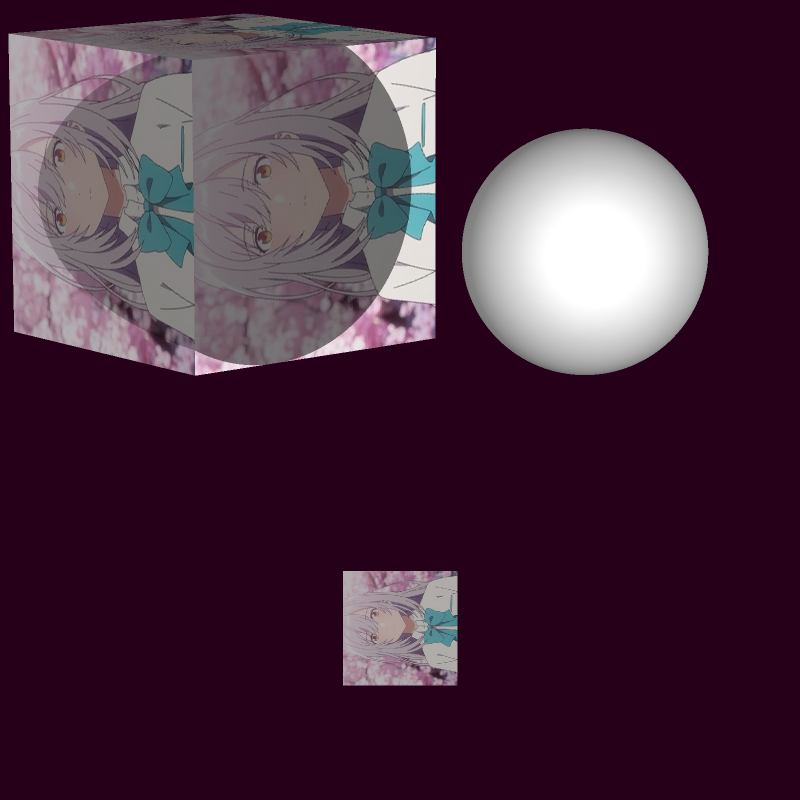
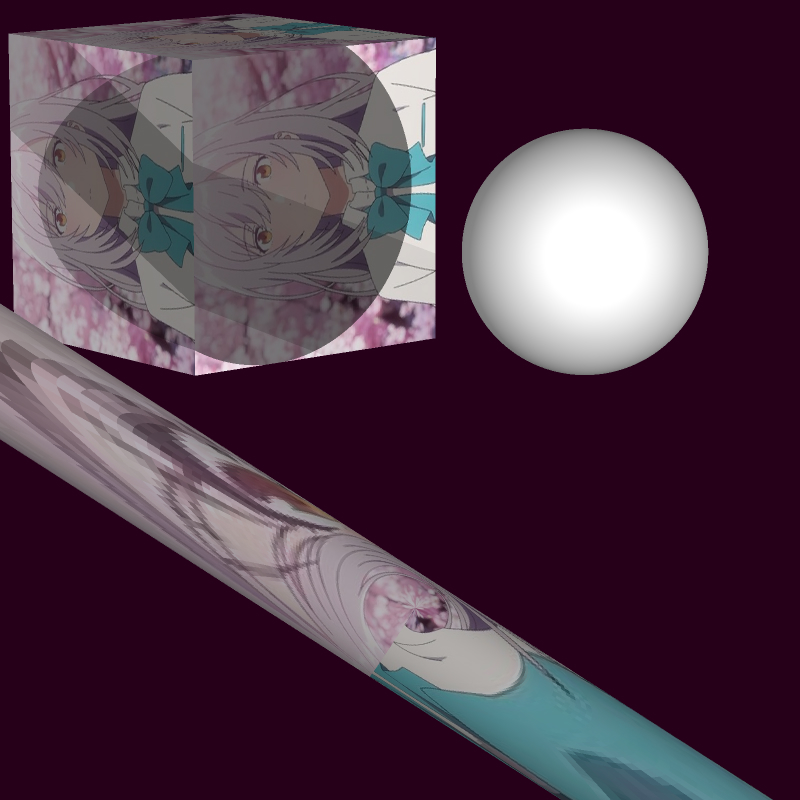
add cylinder not functional texture coordinate

Changed region(s): [[0.0, 0.375, 0.9688, 1.0], [0.0, 0.0312, 0.25, 0.375]]

diff --git a/Raytracing/src/primitives/Cylinder.cpp b/Raytracing/src/primitives/Cylinder.cpp
@@ -1,0 +1,62 @@
+#include "../../headers/primitives/Cylinder.h"
+#include "../../headers/math/Constants.h"
+
+Cylinder::Cylinder(const Vector& position, const Vector& rotation, float scale, const std::shared_ptr<Material>& material) :
+	Object(position, rotation, scale, material)
+{}
+
+bool Cylinder::intersect(const Ray& ray, Point& impact) const
+{
+	Ray r = globalToLocal(ray).normalized();
+
+	float a = r.vector[0] * r.vector[0] + r.vector[2] * r.vector[2];
+	float b = 2 * (r.vector[0] * r.origin[0] + r.vector[2] * r.origin[2]);
+	float c = r.origin[0] * r.origin[0] + r.origin[2] * r.origin[2] - 1.0;
+	float delta = b * b - 4 * a * c;
+
+	if (delta < 0)return false;
+
+	float t;
+	if (delta < 0.0001) {
+		t = -b / (2 * a);
+	}
+	else {
+		t = (-b - sqrt(delta)) / (2 * a);
+		if (t < 0)t = (-b + sqrt(delta)) / (2 * a);
+	}
+	if (t < 0)return false;
+
+	Point p = r.origin + t * r.vector;
+	impact = localToGlobal(p);
+	return true;
+
+}
+
+Ray Cylinder::getNormal(const Point& impact, const Point& observator) const
+{
+	//TODO take solution of teacher from schooding but implem norm?
+	Point imp = globalToLocal(impact);
+	Point obs = globalToLocal(observator);
+
+	float distance = sqrt(pow(obs[0], 2) + pow(obs[2], 2));
+
+	Vector dir(imp[0], 0, imp[2]);
+
+	if (distance < 1) dir = -1 * dir;
+
+	Ray res(impact, localToGlobal(dir));
+	return res;
+}
+
+Point Cylinder::getTextureCoordinates(const Point& p) const
+{
+	//TODO do real implementation (currently sphere implem)
+	Point coord = globalToLocal(p);
+	Point lp = globalToLocal(p);
+	float rho = std::sqrt(Point::dot(lp, lp));
+	float theta = std::atan2(lp[1], lp[0]);
+	float sigma = std::acos(lp[2] / rho);
+	float x = -theta / (2 * PI) + 0.5;
+	float y = sigma / PI;
+	return Point(x, y, 0]);
+}

diff --git a/Raytracing/main.cpp b/Raytracing/main.cpp
@@ -34,6 +34,7 @@
 #include "headers/primitives/Cube.h"
 #include "headers/lights/AmbientLight.h"
 #include "headers/primitives/Square.h"
+#include "headers/primitives/Cylinder.h"
 
 #include "imgui.h"
 #include "imgui_impl_glfw.h"
@@ -55,7 +56,9 @@ int main()
 	auto pos2 = Vector(5, 0, -10);
 	auto s1 = std::make_shared<Cube>(pos, Vector(0.2, 0.7, 0), 1.7, material2);
 	auto s2 = std::make_shared<Sphere>(pos + (pos2 - pos) / 2, Vector(), 1, material1);
-	auto sq1 = std::make_shared<Square>(Vector(0, -2, -25), Vector(), 0.5, material2);
+	//auto sq1 = std::make_shared<Square>(Vector(0, -2, -25), Vector(), 0.5, material2);
+	auto cy1 = std::make_shared<Cylinder>(Vector(0, -2, -25), Vector(0.,0.5,1), 0.5, material2);
+
 	auto l1 = std::make_shared<AmbientLight>(pos2, Vector(0, 0, 0), Color::white * 0.5, Color::white * 0.3);
 	auto l2 = std::make_shared<AmbientLight>(Vector(-15, 0, 0), Vector(0, 0, 0), Color::white * 0.15, Color::white * 0.2);
 	auto scene = std::make_shared<Scene>(Color::blue * 0.1 + Color::red * 0.15, Color::white * 0.4);
@@ -63,7 +66,7 @@ int main()
 
 	scene->add(s1);
 	scene->add(s2);
-	scene->add(sq1);
+	scene->add(cy1);
 	scene->add(l1);
 	scene->add(l2);
 

diff --git a/Raytracing/headers/primitives/Cylinder.h b/Raytracing/headers/primitives/Cylinder.h
@@ -1,0 +1,20 @@
+#ifndef RT_CYLINDER_H
+#define RT_CYLINDER_H
+
+#include "../engine/Object.h"
+#include "../engine/Ray.h"
+#include "../math/Point.h"
+#include "../math/Vector.h"
+#include "../texture/Material.h"
+
+class Cylinder : public Object {
+public:
+	Cylinder() = default;
+	Cylinder(const Vector& position, const Vector& rotation, float scale, const std::shared_ptr<Material>& material);
+
+	bool intersect(const Ray& ray, Point& impact) const override;
+	Ray getNormal(const Point& impact, const Point& observator) const override;
+	Point getTextureCoordinates(const Point& p) const override;
+};
+
+#endif

diff --git a/Raytracing/src/primitives/Square.cpp b/Raytracing/src/primitives/Square.cpp
@@ -1,5 +1,4 @@
 #include "../../headers/primitives/Square.h"
-#include <algorithm>
 
 Square::Square(const Vector& position, const Vector& rotation, float scale, const std::shared_ptr<Material>& material) :
 	Object(position, rotation, scale, material)
